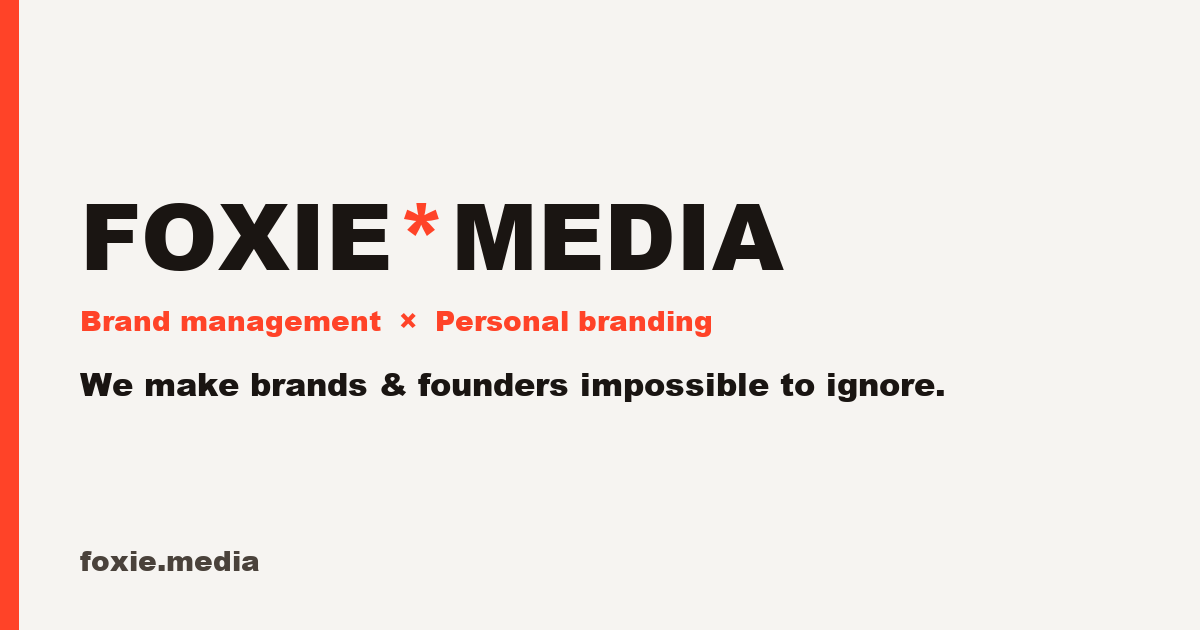
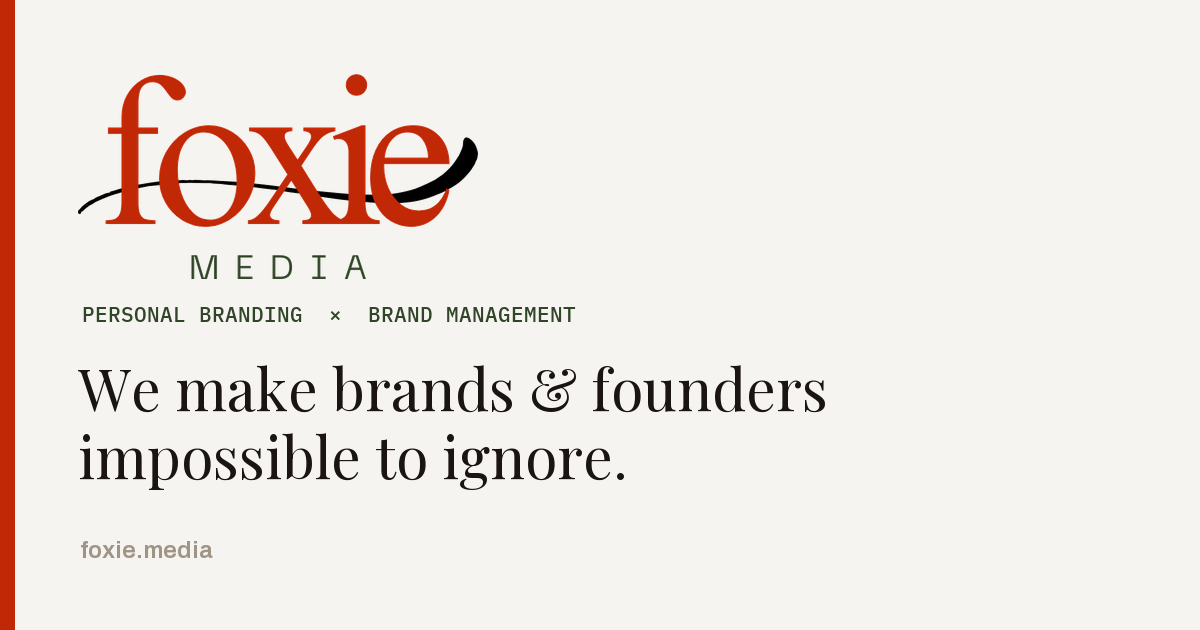
Social cards: title reads "Foxie Media", OG image rebuilt on current brand
Two separate things behind the WhatsApp preview.

The heading. og:title carried the full SEO title, so a card would read
"Foxie Media — Personal Branding & Brand Management". og:title and
twitter:title are now just "Foxie Media" across all six pages, with the
descriptive version kept in <title> where it belongs for search. The
descriptions are rewritten per page to be card-length rather than
search-length.

The image. og-image.png was pre-rebrand: the FOXIE*MEDIA text lockup in
the old neon #ff4328 - the one red the palette work removed everywhere
else. Rebuilt at 1200x630 on the real brand: the serif foxie lockup, the
eyebrow in the secondary green, the headline set in Playfair Display
(fetched the actual webfont rather than substituting a system serif), and
a brand-red rule. 65KB, well inside the limits.

Both image references are versioned to ?v=2. Platforms cache scraped
images by URL, so without that they would keep serving the old artwork
from the same path.

Verified the tags are served correctly to WhatsApp's own user-agent: all
og/twitter values present at byte 894, image 200 at 1200x630. Nothing was
broken server-side - the card in the screenshot was a stale cached scrape.

diff --git a/Foxie Media.dc.html b/Foxie Media.dc.html
@@ -13,15 +13,15 @@
 <meta property="og:site_name" content="Foxie Media">
 <meta property="og:locale" content="en_IN">
 <meta property="og:url" content="https://foxie.media/">
-<meta property="og:title" content="Foxie Media — Personal Branding &amp; Brand Management">
-<meta property="og:description" content="Foxie Media is a personal branding and brand management studio founded by Varsha Sangolli. We make brands and founders impossible to ignore.">
-<meta property="og:image" content="https://foxie.media/og-image.png">
+<meta property="og:title" content="Foxie Media">
+<meta property="og:description" content="Personal branding and brand management. We make brands and founders impossible to ignore.">
+<meta property="og:image" content="https://foxie.media/og-image.png?v=2">
 <meta property="og:image:width" content="1200">
 <meta property="og:image:height" content="630">
 <meta name="twitter:card" content="summary_large_image">
-<meta name="twitter:title" content="Foxie Media — Personal Branding &amp; Brand Management">
-<meta name="twitter:description" content="Foxie Media is a personal branding and brand management studio founded by Varsha Sangolli.">
-<meta name="twitter:image" content="https://foxie.media/og-image.png">
+<meta name="twitter:title" content="Foxie Media">
+<meta name="twitter:description" content="Personal branding and brand management. We make brands and founders impossible to ignore.">
+<meta name="twitter:image" content="https://foxie.media/og-image.png?v=2">
 <link rel="icon" type="image/png" sizes="192x192" href="/favicon.png">
 <link rel="icon" type="image/png" sizes="48x48" href="/favicon-48.png">
 <link rel="icon" href="/favicon.ico" sizes="48x48">
@@ -37,7 +37,7 @@
       "alternateName": ["FOXIE MEDIA", "Foxie"],
       "url": "https://foxie.media/",
       "logo": { "@type": "ImageObject", "url": "https://foxie.media/favicon.png", "width": 192, "height": 192 },
-      "image": "https://foxie.media/og-image.png",
+      "image": "https://foxie.media/og-image.png?v=2",
       "email": "coffee@foxie.media",
       "telephone": ["+917338178311", "+918861596468"],
       "description": "Foxie Media is a personal branding and brand management studio founded by Varsha Sangolli. It helps ambitious brands and founders build visibility, credibility and growth through strategy, storytelling and content.",
@@ -105,7 +105,7 @@
       "name": "Foxie Media — Personal Branding & Brand Management",
       "isPartOf": { "@id": "https://foxie.media/#website" },
       "about": { "@id": "https://foxie.media/#organization" },
-      "primaryImageOfPage": "https://foxie.media/og-image.png",
+      "primaryImageOfPage": "https://foxie.media/og-image.png?v=2",
       "dateModified": "2026-08-31"
     },
     {

diff --git a/index.html b/index.html
@@ -13,15 +13,15 @@
 <meta property="og:site_name" content="Foxie Media">
 <meta property="og:locale" content="en_IN">
 <meta property="og:url" content="https://foxie.media/">
-<meta property="og:title" content="Foxie Media — Personal Branding &amp; Brand Management">
-<meta property="og:description" content="Foxie Media is a personal branding and brand management studio founded by Varsha Sangolli. We make brands and founders impossible to ignore.">
-<meta property="og:image" content="https://foxie.media/og-image.png">
+<meta property="og:title" content="Foxie Media">
+<meta property="og:description" content="Personal branding and brand management. We make brands and founders impossible to ignore.">
+<meta property="og:image" content="https://foxie.media/og-image.png?v=2">
 <meta property="og:image:width" content="1200">
 <meta property="og:image:height" content="630">
 <meta name="twitter:card" content="summary_large_image">
-<meta name="twitter:title" content="Foxie Media — Personal Branding &amp; Brand Management">
-<meta name="twitter:description" content="Foxie Media is a personal branding and brand management studio founded by Varsha Sangolli.">
-<meta name="twitter:image" content="https://foxie.media/og-image.png">
+<meta name="twitter:title" content="Foxie Media">
+<meta name="twitter:description" content="Personal branding and brand management. We make brands and founders impossible to ignore.">
+<meta name="twitter:image" content="https://foxie.media/og-image.png?v=2">
 <link rel="icon" type="image/png" sizes="192x192" href="/favicon.png">
 <link rel="icon" type="image/png" sizes="48x48" href="/favicon-48.png">
 <link rel="icon" href="/favicon.ico" sizes="48x48">
@@ -37,7 +37,7 @@
       "alternateName": ["FOXIE MEDIA", "Foxie"],
       "url": "https://foxie.media/",
       "logo": { "@type": "ImageObject", "url": "https://foxie.media/favicon.png", "width": 192, "height": 192 },
-      "image": "https://foxie.media/og-image.png",
+      "image": "https://foxie.media/og-image.png?v=2",
       "email": "coffee@foxie.media",
       "telephone": ["+917338178311", "+918861596468"],
       "description": "Foxie Media is a personal branding and brand management studio founded by Varsha Sangolli. It helps ambitious brands and founders build visibility, credibility and growth through strategy, storytelling and content.",
@@ -105,7 +105,7 @@
       "name": "Foxie Media — Personal Branding & Brand Management",
       "isPartOf": { "@id": "https://foxie.media/#website" },
       "about": { "@id": "https://foxie.media/#organization" },
-      "primaryImageOfPage": "https://foxie.media/og-image.png",
+      "primaryImageOfPage": "https://foxie.media/og-image.png?v=2",
       "dateModified": "2026-08-31"
     },
     {

diff --git a/faq.html b/faq.html
@@ -12,14 +12,14 @@
 <meta property="og:type" content="website">
 <meta property="og:site_name" content="Foxie Media">
 <meta property="og:locale" content="en_IN">
-<meta property="og:title" content="FAQ — Foxie Media">
-<meta property="og:description" content="Direct answers about Foxie Media, Varsha Sangolli, personal branding and brand management.">
+<meta property="og:title" content="Foxie Media">
+<meta property="og:description" content="Straight answers about the studio, the services and the work.">
 <meta property="og:url" content="https://foxie.media/faq">
-<meta property="og:image" content="https://foxie.media/og-image.png">
+<meta property="og:image" content="https://foxie.media/og-image.png?v=2">
 <meta name="twitter:card" content="summary_large_image">
-<meta name="twitter:title" content="FAQ — Foxie Media">
-<meta name="twitter:description" content="Direct answers about Foxie Media, Varsha Sangolli, personal branding and brand management.">
-<meta name="twitter:image" content="https://foxie.media/og-image.png">
+<meta name="twitter:title" content="Foxie Media">
+<meta name="twitter:description" content="Straight answers about the studio, the services and the work.">
+<meta name="twitter:image" content="https://foxie.media/og-image.png?v=2">
 <link rel="icon" type="image/png" sizes="192x192" href="/favicon.png">
 <link rel="stylesheet" href="/site.css">
 <link rel="preconnect" href="https://fonts.googleapis.com">
@@ -35,7 +35,7 @@
       "alternateName": ["FOXIE MEDIA", "Foxie"],
       "url": "https://foxie.media/",
       "logo": { "@type": "ImageObject", "url": "https://foxie.media/favicon.png", "width": 192, "height": 192 },
-      "image": "https://foxie.media/og-image.png",
+      "image": "https://foxie.media/og-image.png?v=2",
       "email": "coffee@foxie.media",
       "telephone": ["+917338178311", "+918861596468"],
       "description": "Foxie Media is a personal branding and brand management studio founded by Varsha Sangolli. It helps ambitious brands and founders build visibility, credibility and growth through strategy, storytelling and content.",

diff --git a/about.html b/about.html
@@ -12,14 +12,14 @@
 <meta property="og:type" content="profile">
 <meta property="og:site_name" content="Foxie Media">
 <meta property="og:locale" content="en_IN">
-<meta property="og:title" content="About Foxie Media — Founded by Varsha Sangolli">
-<meta property="og:description" content="Led by Varsha Sangolli. Strategy, storytelling and content for brands and founders.">
+<meta property="og:title" content="Foxie Media">
+<meta property="og:description" content="A personal branding and brand management studio. Strategy, storytelling and content.">
 <meta property="og:url" content="https://foxie.media/about">
-<meta property="og:image" content="https://foxie.media/og-image.png">
+<meta property="og:image" content="https://foxie.media/og-image.png?v=2">
 <meta name="twitter:card" content="summary_large_image">
-<meta name="twitter:title" content="About Foxie Media — Founded by Varsha Sangolli">
-<meta name="twitter:description" content="Led by Varsha Sangolli. Strategy, storytelling and content for brands and founders.">
-<meta name="twitter:image" content="https://foxie.media/og-image.png">
+<meta name="twitter:title" content="Foxie Media">
+<meta name="twitter:description" content="A personal branding and brand management studio. Strategy, storytelling and content.">
+<meta name="twitter:image" content="https://foxie.media/og-image.png?v=2">
 <link rel="icon" type="image/png" sizes="192x192" href="/favicon.png">
 <link rel="stylesheet" href="/site.css">
 <link rel="preconnect" href="https://fonts.googleapis.com">

diff --git a/services.html b/services.html
@@ -12,14 +12,14 @@
 <meta property="og:type" content="website">
 <meta property="og:site_name" content="Foxie Media">
 <meta property="og:locale" content="en_IN">
-<meta property="og:title" content="Personal Branding &amp; Brand Management Services — Foxie Media">
-<meta property="og:description" content="Personal branding and brand management, done properly.">
+<meta property="og:title" content="Foxie Media">
+<meta property="og:description" content="Personal branding and brand management, done properly. Strategy first, then execution.">
 <meta property="og:url" content="https://foxie.media/services">
-<meta property="og:image" content="https://foxie.media/og-image.png">
+<meta property="og:image" content="https://foxie.media/og-image.png?v=2">
 <meta name="twitter:card" content="summary_large_image">
-<meta name="twitter:title" content="Personal Branding &amp; Brand Management Services — Foxie Media">
-<meta name="twitter:description" content="Personal branding and brand management, done properly.">
-<meta name="twitter:image" content="https://foxie.media/og-image.png">
+<meta name="twitter:title" content="Foxie Media">
+<meta name="twitter:description" content="Personal branding and brand management, done properly. Strategy first, then execution.">
+<meta name="twitter:image" content="https://foxie.media/og-image.png?v=2">
 <link rel="icon" type="image/png" sizes="192x192" href="/favicon.png">
 <link rel="stylesheet" href="/site.css">
 <link rel="preconnect" href="https://fonts.googleapis.com">

diff --git a/work.html b/work.html
@@ -12,14 +12,14 @@
 <meta property="og:type" content="website">
 <meta property="og:site_name" content="Foxie Media">
 <meta property="og:locale" content="en_IN">
-<meta property="og:title" content="Work — Foxie Media">
-<meta property="og:description" content="Personal brands and companies, built with strategy and executed properly.">
+<meta property="og:title" content="Foxie Media">
+<meta property="og:description" content="Selected personal branding and brand management work.">
 <meta property="og:url" content="https://foxie.media/work">
-<meta property="og:image" content="https://foxie.media/og-image.png">
+<meta property="og:image" content="https://foxie.media/og-image.png?v=2">
 <meta name="twitter:card" content="summary_large_image">
-<meta name="twitter:title" content="Work — Foxie Media">
-<meta name="twitter:description" content="Personal brands and companies, built with strategy and executed properly.">
-<meta name="twitter:image" content="https://foxie.media/og-image.png">
+<meta name="twitter:title" content="Foxie Media">
+<meta name="twitter:description" content="Selected personal branding and brand management work.">
+<meta name="twitter:image" content="https://foxie.media/og-image.png?v=2">
 <link rel="icon" type="image/png" sizes="192x192" href="/favicon.png">
 <link rel="stylesheet" href="/site.css">
 <link rel="preconnect" href="https://fonts.googleapis.com">

diff --git a/contact.html b/contact.html
@@ -12,14 +12,14 @@
 <meta property="og:type" content="website">
 <meta property="og:site_name" content="Foxie Media">
 <meta property="og:locale" content="en_IN">
-<meta property="og:title" content="Contact Foxie Media">
+<meta property="og:title" content="Foxie Media">
 <meta property="og:description" content="Tell us what you're building. We'll figure out how Foxie can help.">
 <meta property="og:url" content="https://foxie.media/contact">
-<meta property="og:image" content="https://foxie.media/og-image.png">
+<meta property="og:image" content="https://foxie.media/og-image.png?v=2">
 <meta name="twitter:card" content="summary_large_image">
-<meta name="twitter:title" content="Contact Foxie Media">
+<meta name="twitter:title" content="Foxie Media">
 <meta name="twitter:description" content="Tell us what you're building. We'll figure out how Foxie can help.">
-<meta name="twitter:image" content="https://foxie.media/og-image.png">
+<meta name="twitter:image" content="https://foxie.media/og-image.png?v=2">
 <link rel="icon" type="image/png" sizes="192x192" href="/favicon.png">
 <link rel="stylesheet" href="/site.css">
 <script src="/wa-form.js?v=3" defer></script>
